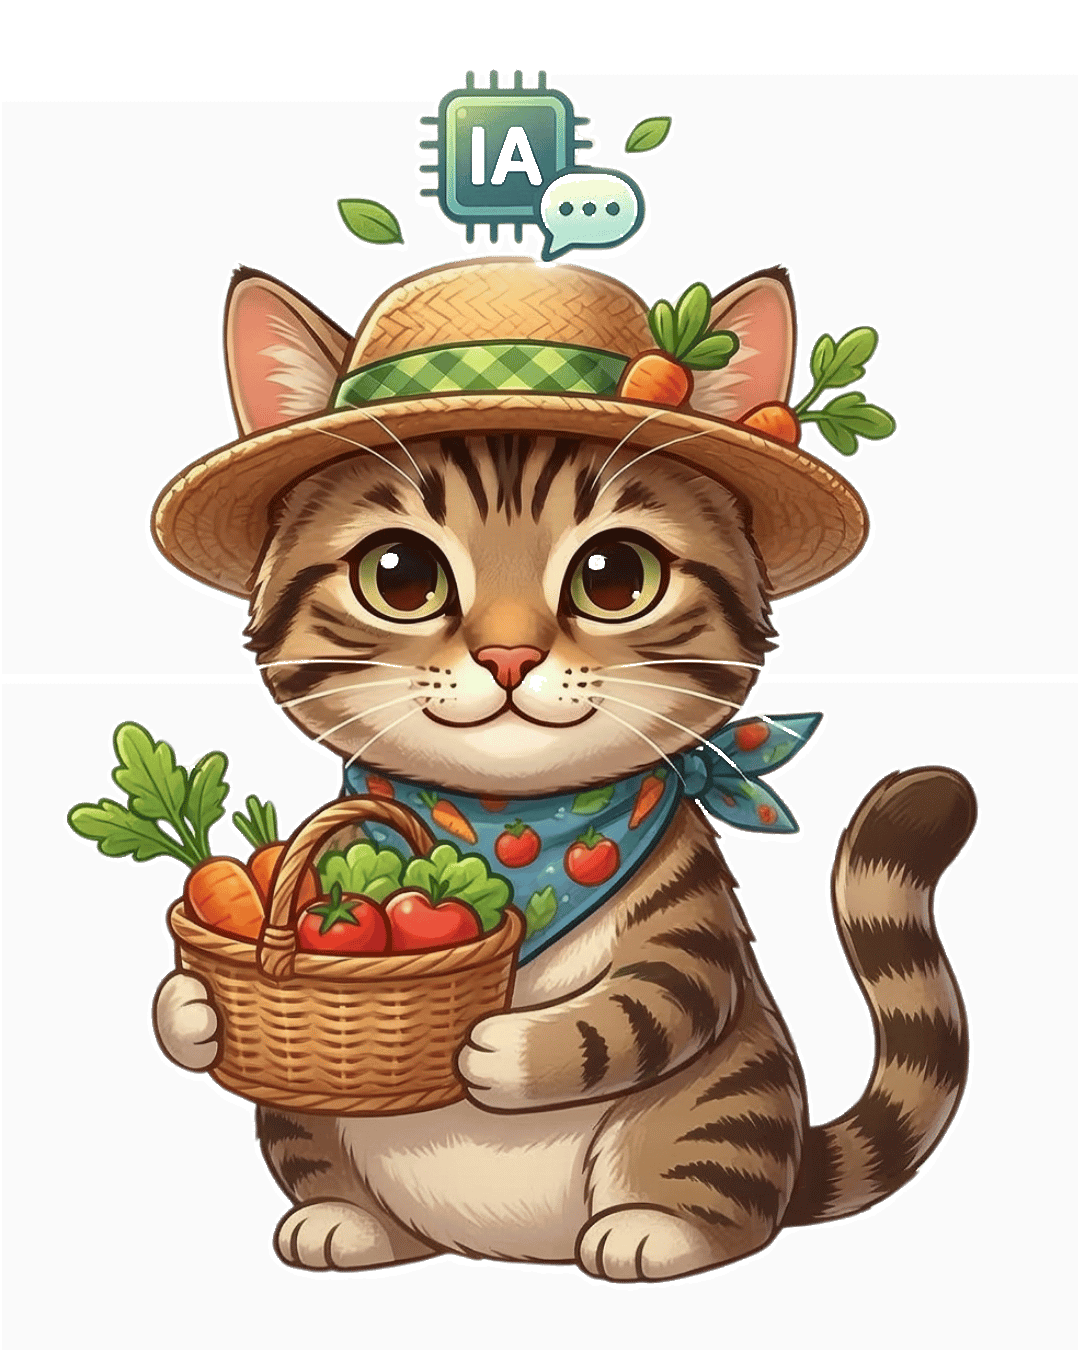
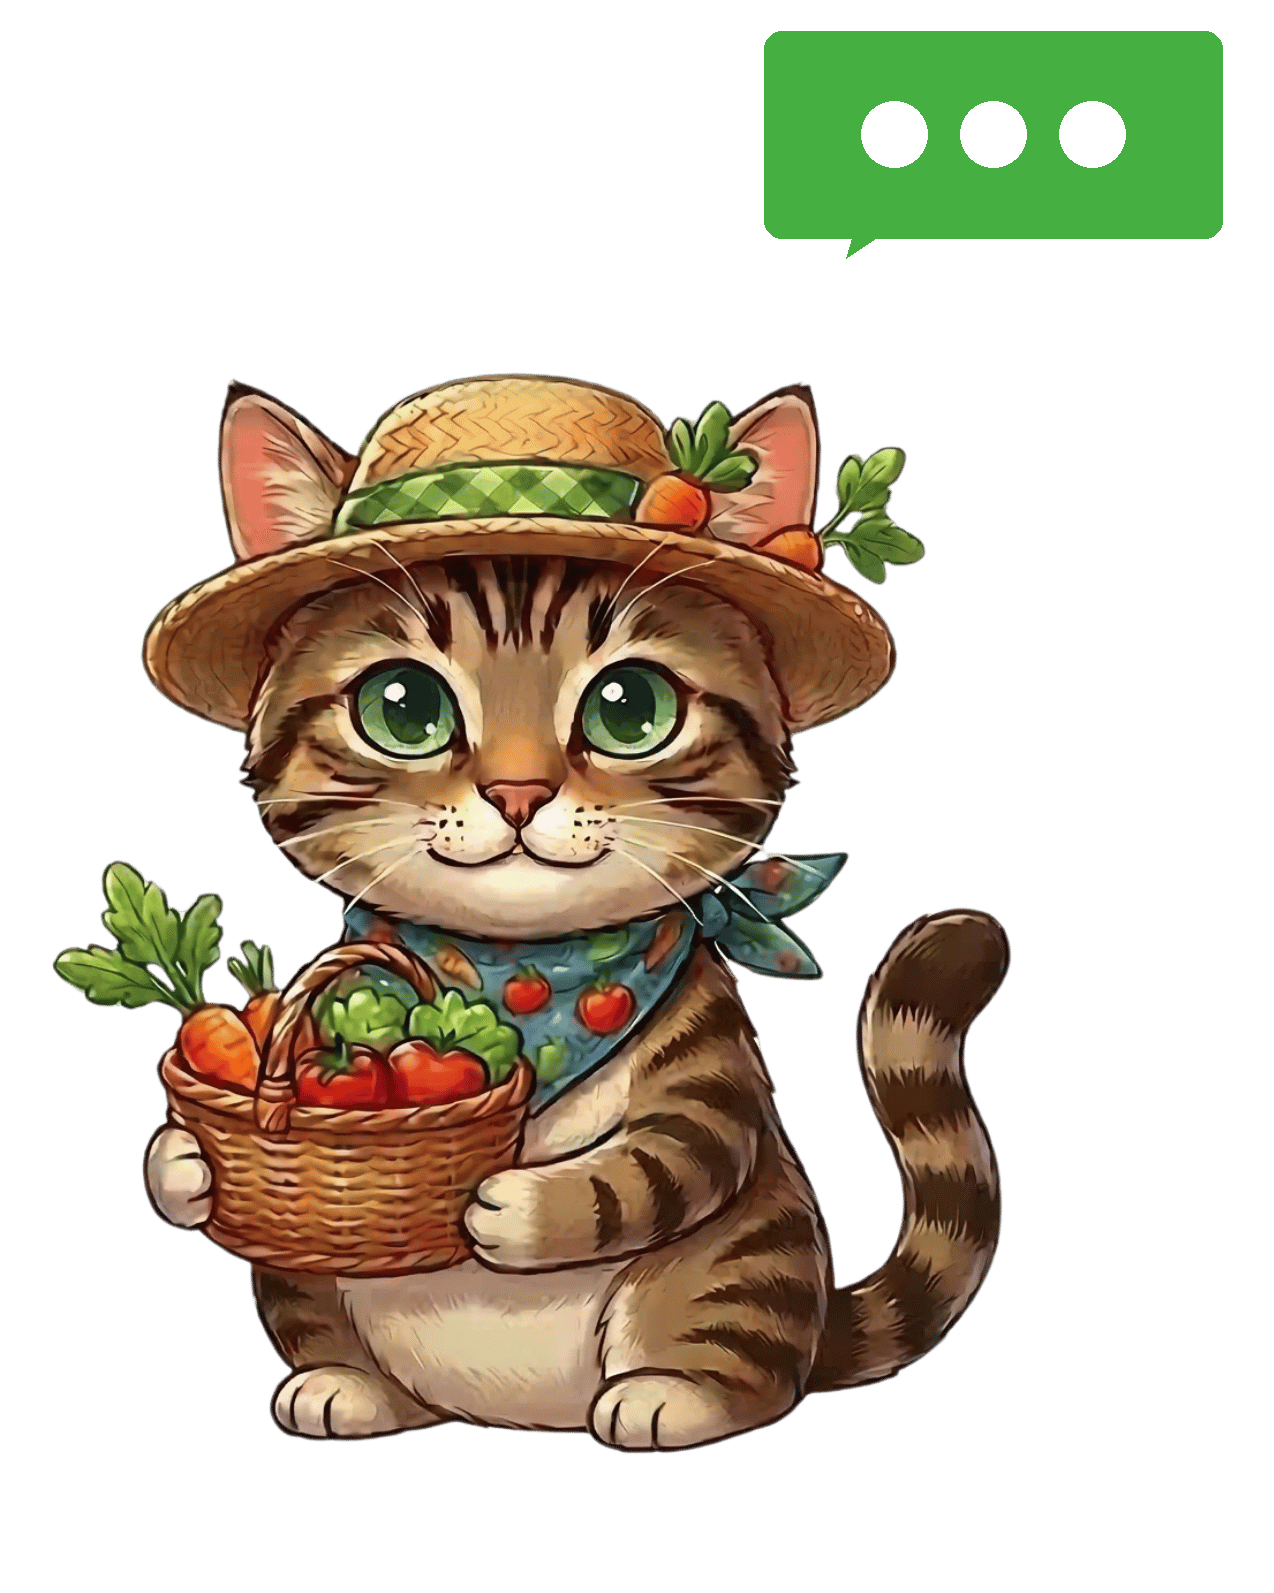
feat: nueva imagen Celia con globo de chat, sin fondo, botón 50% más grande
- Nueva foto de Celia (gata con ojos verdes y canasta)
- Fondo blanco removido — flota sobre la página
- Globo de conversación verde con puntos suspensivos en la imagen
- Botón ampliado de 64px a 96px (50% más grande)

diff --git a/src/components/chat/ChatWidget.tsx b/src/components/chat/ChatWidget.tsx
@@ -85,16 +85,16 @@ export default function ChatWidget() {
         onPointerUp={onPointerUp}
         aria-label="Abrir asistente Celia"
         style={{ right: pos.x, bottom: pos.y, touchAction: "none" }}
-        className="fixed z-50 w-16 h-16 flex items-center justify-center select-none cursor-grab active:cursor-grabbing hover:scale-110 transition-transform drop-shadow-xl"
+        className="fixed z-50 w-24 h-24 flex items-center justify-center select-none cursor-grab active:cursor-grabbing hover:scale-110 transition-transform drop-shadow-xl"
       >
         {open ? (
-          <div className="w-full h-full bg-[#3AAA35] rounded-full flex items-center justify-center shadow-lg">
+          <div className="w-full h-full bg-[#3AAA35] rounded-full flex items-center justify-center shadow-lg transition-colors">
             <svg width="22" height="22" viewBox="0 0 24 24" fill="none">
               <path d="M18 6L6 18M6 6l12 12" stroke="white" strokeWidth="2.5" strokeLinecap="round"/>
             </svg>
           </div>
         ) : (
-          <Image src="/images/celia.png" alt="Celia" width={64} height={64} className="w-full h-full object-contain" />
+          <Image src="/images/celia.png" alt="Celia" width={96} height={96} className="w-full h-full object-contain" />
         )}
       </button>
 
@@ -102,7 +102,7 @@ export default function ChatWidget() {
       {open && (
         <div
           className="fixed z-50 w-80 sm:w-96 bg-white rounded-3xl shadow-2xl flex flex-col overflow-hidden border border-[#f0f0f0]"
-          style={{ right: pos.x, bottom: pos.y + 64, maxHeight: "70vh" }}
+          style={{ right: pos.x, bottom: pos.y + 96, maxHeight: "70vh" }}
         >
           {/* Header */}
           <div className="bg-[#3AAA35] px-4 py-3 flex items-center gap-3 flex-shrink-0">
